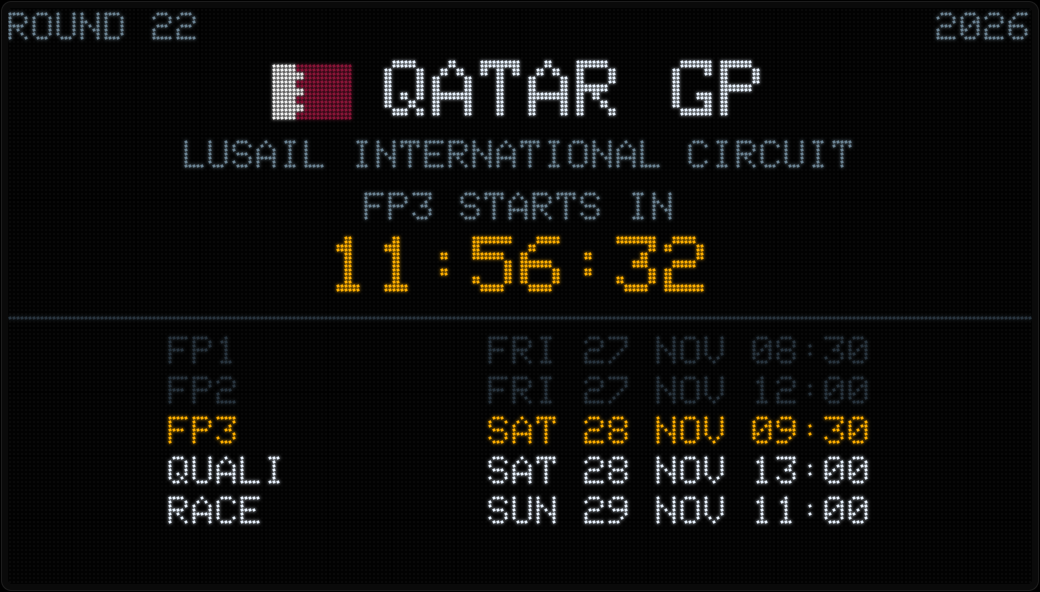
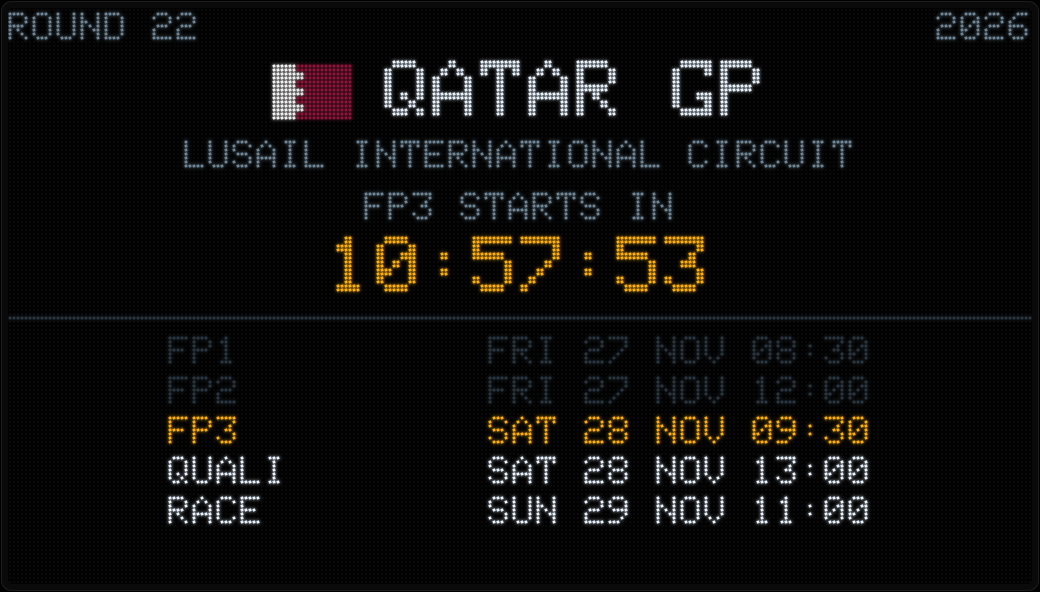
Smoother track maps: no more one-LED hops on straights
A straight that drifts across the boundary between two LED rows had its
points rounded to alternating rows, so the line hopped up a row and back
(visible on Lusail's main straight). The outline is now simplified at LED
scale (Douglas-Peucker, 0.7 LED) before it's drawn, so a straight is one
clean line. The README's track screenshot and demo GIF are refreshed.

Changed region(s): [[0.5846, 0.3953, 0.6769, 0.4865], [0.4923, 0.3953, 0.5538, 0.5169], [0.3385, 0.3953, 0.4, 0.4865]]

diff --git a/frontend/panel.js b/frontend/panel.js
@@ -472,10 +472,34 @@ const SECTORS = [C.red, 0x2a7fff, C.yellow];
 // line in the direction of travel. Fit it to the box, centred, two LEDs thick,
 // and colour it in thirds by distance: the feed doesn't say where the real
 // sector lines are, so these are close to them rather than exact.
+// Douglas-Peucker: drops points that stray less than tol LEDs from the line
+// through their neighbours, so a straight that drifts across an LED row
+// boundary is drawn as one clean line instead of hopping between rows.
+function simplify(pts, tol) {
+  const keep = pts.map(() => false);
+  keep[0] = keep[pts.length - 1] = true;
+  const stack = [[0, pts.length - 1]];
+  while (stack.length) {
+    const ab = stack.pop(), a = pts[ab[0]], b = pts[ab[1]];
+    const dx = b[0] - a[0], dy = b[1] - a[1], len = Math.hypot(dx, dy);
+    let far = -1, worst = tol;
+    for (let i = ab[0] + 1; i < ab[1]; i++) {
+      const d = len ? Math.abs(dy * (pts[i][0] - a[0]) - dx * (pts[i][1] - a[1])) / len
+                    : Math.hypot(pts[i][0] - a[0], pts[i][1] - a[1]);   // a closed loop's ends meet
+      if (d > worst) { worst = d; far = i; }
+    }
+    if (far >= 0) { keep[far] = true; stack.push([ab[0], far], [far, ab[1]]); }
+  }
+  return pts.filter((p, i) => keep[i]);
+}
+
 function drawMap(m, bx, by, bw, bh) {
   const k = Math.min((bw - 2) / m.w, (bh - 2) / m.h);
   const ox = bx + Math.round((bw - 2 - m.w * k) / 2), oy = by + Math.round((bh - 2 - m.h * k) / 2);
-  const pts = m.points.map(p => [ox + p[0] * k, oy + p[1] * k]);
+  const raw = m.points.map(p => [ox + p[0] * k, oy + p[1] * k]);
+  raw.push(raw[0]);
+  const pts = simplify(raw, 0.7);
+  pts.pop();   // the loop closes itself below
   const n = pts.length;
   const seg = [];
   let total = 0;
